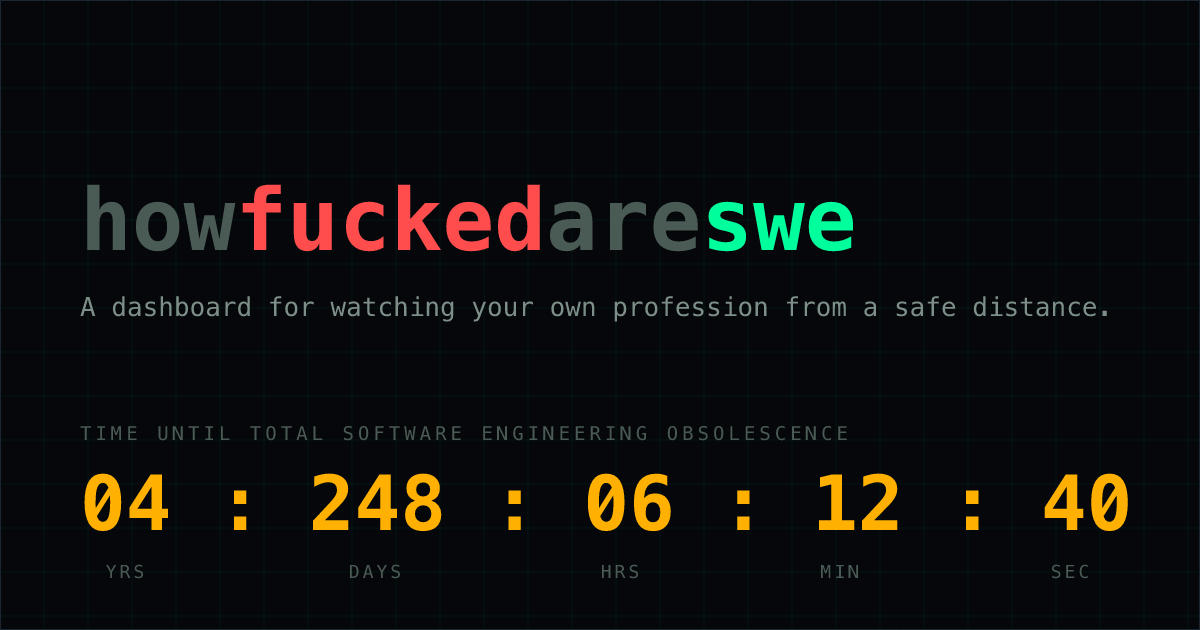
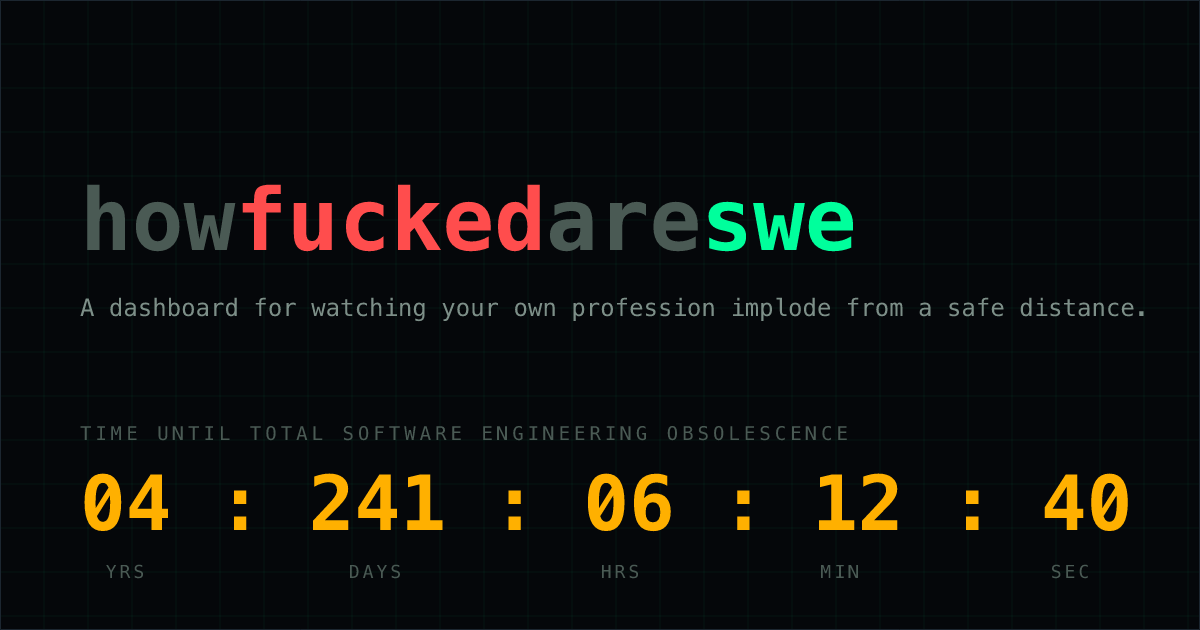
copy: the tagline needed its verb
'watching your own profession from a safe distance' describes a location.
'watching your own profession implode from a safe distance' is the joke --
and the safe distance is the part that isn't true.

Regenerated the social card to match.

Changed region(s): [[0.0925, 0.4524, 0.9558, 0.5127], [0.3392, 0.754, 0.37, 0.8444]]

diff --git a/src/App.tsx b/src/App.tsx
@@ -124,7 +124,7 @@ function Header() {
             <span className="cursor" aria-hidden />
           </h1>
           <p className="mt-2 text-[11px] text-[var(--color-ink-mute)]">
-            A dashboard for watching your own profession from a safe distance.
+            A dashboard for watching your own profession implode from a safe distance.
           </p>
         </div>
         <div className="flex items-center gap-2 text-[9px] tracking-[0.14em] text-[var(--color-ink-faint)]">
